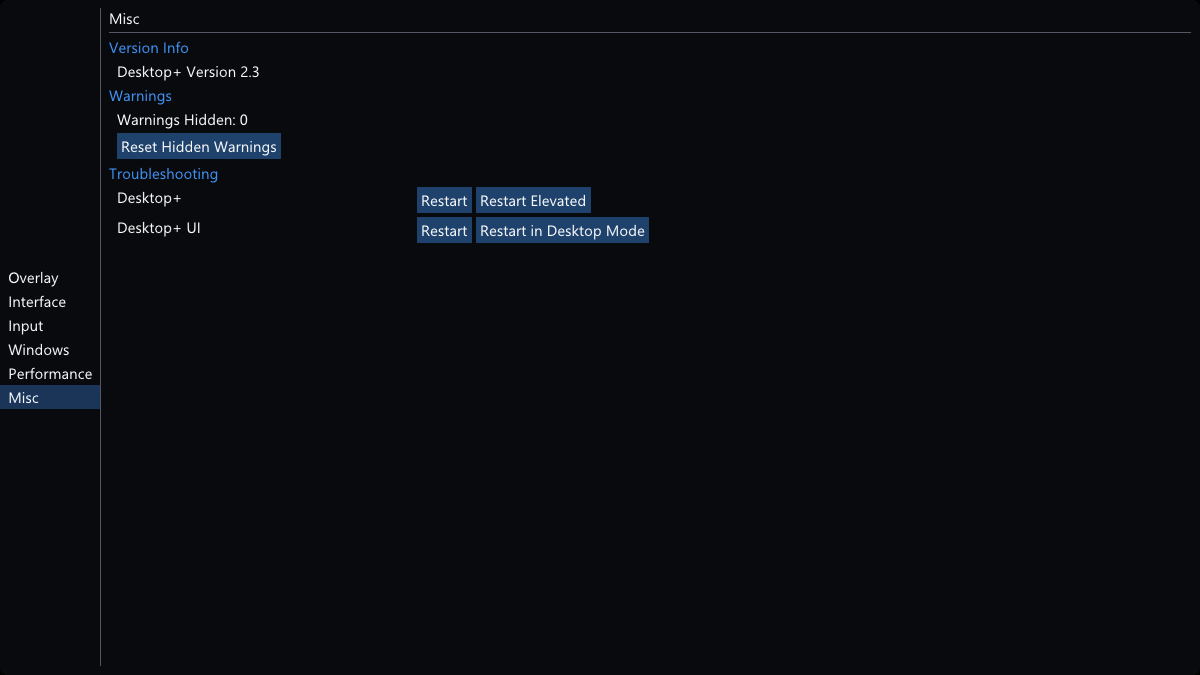
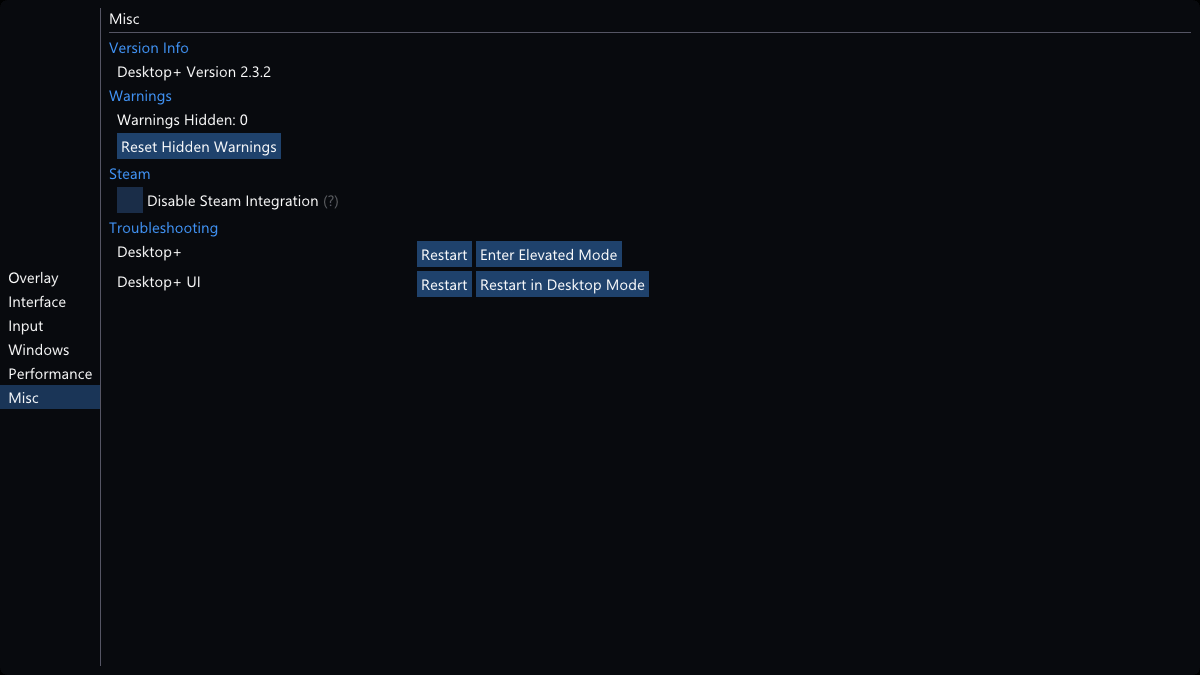
Bump version to 2.3.2 and update documentation

Changed region(s): [[0.3392, 0.28, 0.555, 0.4667], [0.0925, 0.2489, 0.2775, 0.4356]]

diff --git a/src/DesktopPlusUI/WindowSettings.cpp b/src/DesktopPlusUI/WindowSettings.cpp
@@ -2195,7 +2195,7 @@ void WindowSettings::UpdateCatMisc()
         ImGui::Columns(2, "ColumnVersionInfo", false);
         ImGui::SetColumnWidth(0, column_width_0 * 2.0f);
 
-        ImGui::Text("Desktop+ Version 2.3.2 WiP");
+        ImGui::Text("Desktop+ Version 2.3.2");
 
         ImGui::Columns(1);
     }

diff --git a/docs/user_guide.md b/docs/user_guide.md
@@ -292,6 +292,11 @@ Displays version information of the running build of Desktop+.
   - **[Reset Hidden Warnings]**:  
   Resets all hidden warnings, causing them to show up again when their condition is fulfilled.
   
+- **Steam** (Steam Version)
+  - **Disable Steam Integration**:  
+  Restarts Desktop+ without Steam when it was launched by it. This disables the permanent in-app status, usage time statistics and other Steam features.  
+  There will still be a brief in-app status and notification from Desktop+ being launched by Steam even if this is active. Steam Cloud functionality may not work as expected.
+  
 - **Troubleshooting**  
 These buttons let you quickly restart components of Desktop+ in case it starts behaving unexpected in some way. 
 Settings are saved before restarting and are typically restored without loss afterwards.
@@ -300,8 +305,8 @@ Settings are saved before restarting and are typically restored without loss aft
   These buttons apply to the main Desktop+ process, responsible for the mirror overlays and most interaction with them.
     - **[Restart]**:  
 	Restart Desktop+.
-    - **[Restart Elevated]**:  
-	Restart Desktop+ with administrator privileges using the "DesktopPlus Elevated" scheduled task. This button is only visible if elevated mode has been set up.
+    - **[Enter Elevated mode]**:  
+	Enters elevated mode by launching a secondary Desktop+ process with administrator privileges using the "DesktopPlus Elevated" scheduled task. This button is only visible if elevated mode has been set up.
 	
   - **Desktop+ UI**:  
   These buttons apply to the Desktop+ UI process, responsible for displaying UI elements and modifying settings.
@@ -420,7 +425,7 @@ If unsure, load the "Default" multi-overlay profile as a clean starting point be
 1. Select the newly created Action from the bottom of the list and click *[Ok]* to apply the change.
 1. Open the controller binding application list by either going into the SteamVR settings' **Controller** page and clicking **Show old Binding UI**, or go to http://localhost:27062/dashboard/controllerbinding.html with a web browser while SteamVR is running.  
    SteamVR will *not* list Desktop+ in the pop-up that appears by pressing the **Manage Controller Bindings** button, so make sure to not accidentally click that button instead.
-1. Find **Desktop+** in the list. It will typically appear near the bottom of it.  
+1. Find **Desktop+** in the list. With the GitHub version, it will typically appear near the bottom of it.  
    SteamVR may not list Desktop+ right after its first launch. Try restarting SteamVR in that case.
 1. Click [*Edit*] to edit the current input bindings for Desktop+. These are empty by default.
 1. Configure the input bindings as desired. Desktop+ bindings are all boolean actions, meaning you'll find them when configuring digital input types such as *"Button"* or *"Toggle Button"*.

diff --git a/README.md b/README.md
@@ -21,6 +21,10 @@ Advanced desktop access for OpenVR.
 
 ## Usage
 
+### Steam
+
+Install Desktop+ from its [Steam store page](https://store.steampowered.com/app/1494460) and run it.
+
 ### Release Archive
 
 Download and extract the latest archive from the [releases page](https://github.com/elvissteinjr/DesktopPlus/releases). Follow instructions in the included [readme file](assets/readme.txt).
@@ -39,7 +43,7 @@ After building, add the contents of the [assets](assets) directory to the execut
 
 [comment]: # (Honestly kind of lost here. Would've preferred to host the clips on the repo, but people probably want them to play in the browser and not download instead)
 
-A few short videos showcasing some of Desktop+' features:
+A few short videos showcasing some of Desktop+'s features:
 - [Version 2.2 Showcase: Multiple Overlays, Floating UI, Scene App Auto-focus, Update Limiter Override](http://www.elvissteinjr.net/dplus/demo_v2_2_showcase.mp4)
 - [Version 2.1 Showcase: Gaze Fade, Auto Interaction Toggle, Crop to Active Window, FPS-based Limiter](http://www.elvissteinjr.net/dplus/demo_v2_1_showcase.mp4)
 - [Custom Actions](http://www.elvissteinjr.net/dplus/demo_custom_action.mp4)
@@ -47,7 +51,7 @@ A few short videos showcasing some of Desktop+' features:
 - [Cropping & Floating Overlay Origins](http://www.elvissteinjr.net/dplus/demo_detached_cropping.mp4)
 - [Elevated Mode](http://www.elvissteinjr.net/dplus/demo_elevated_mode.mp4)
 
-Most of these are from older builds with a slightly different interface, but the features themselves still work the same in the current version.
+Most of these are from older builds with a slightly different interface, but the features themselves still work the same in the current version. The trailer on the Steam store page also shows some of Desktop+'s functionality.
 
 ## Documentation
 
